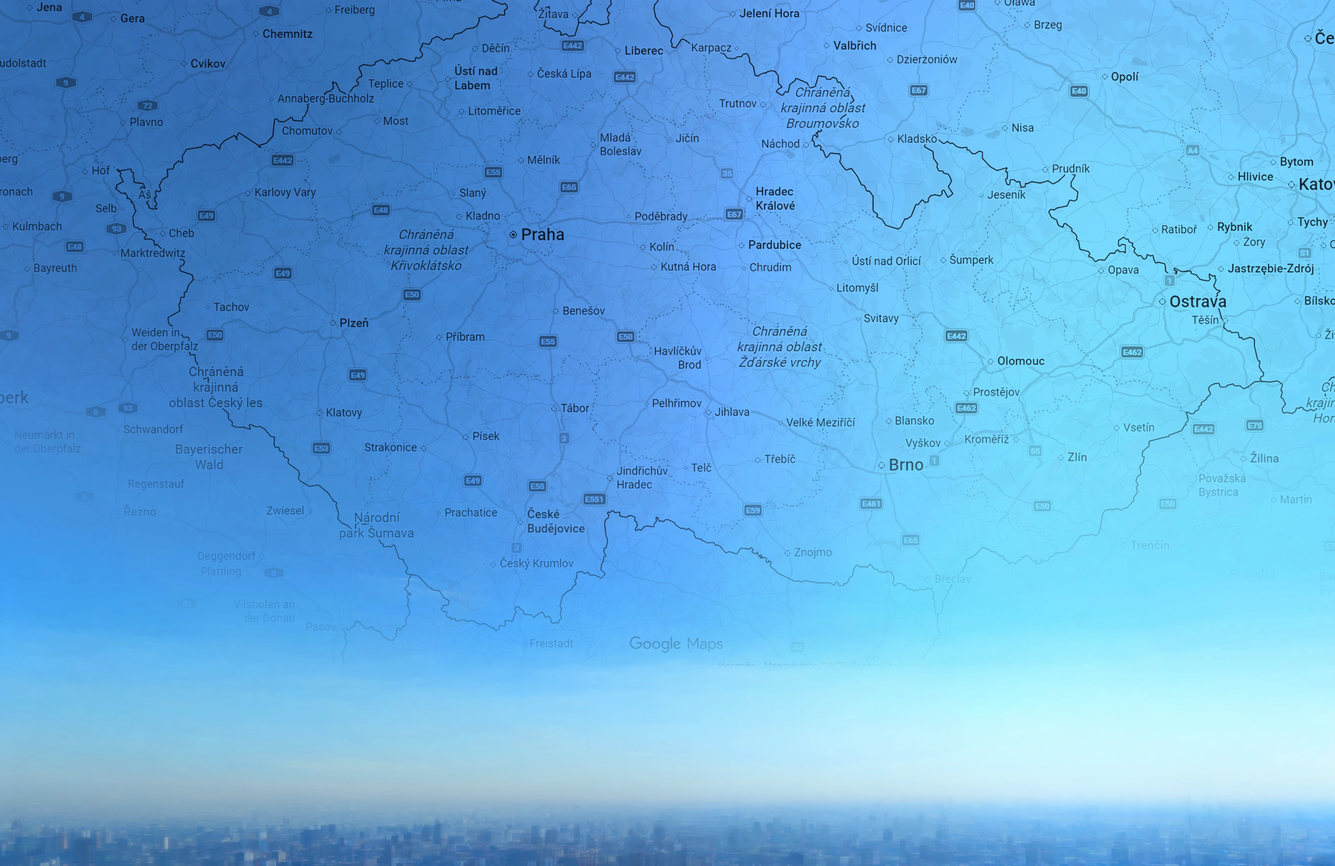
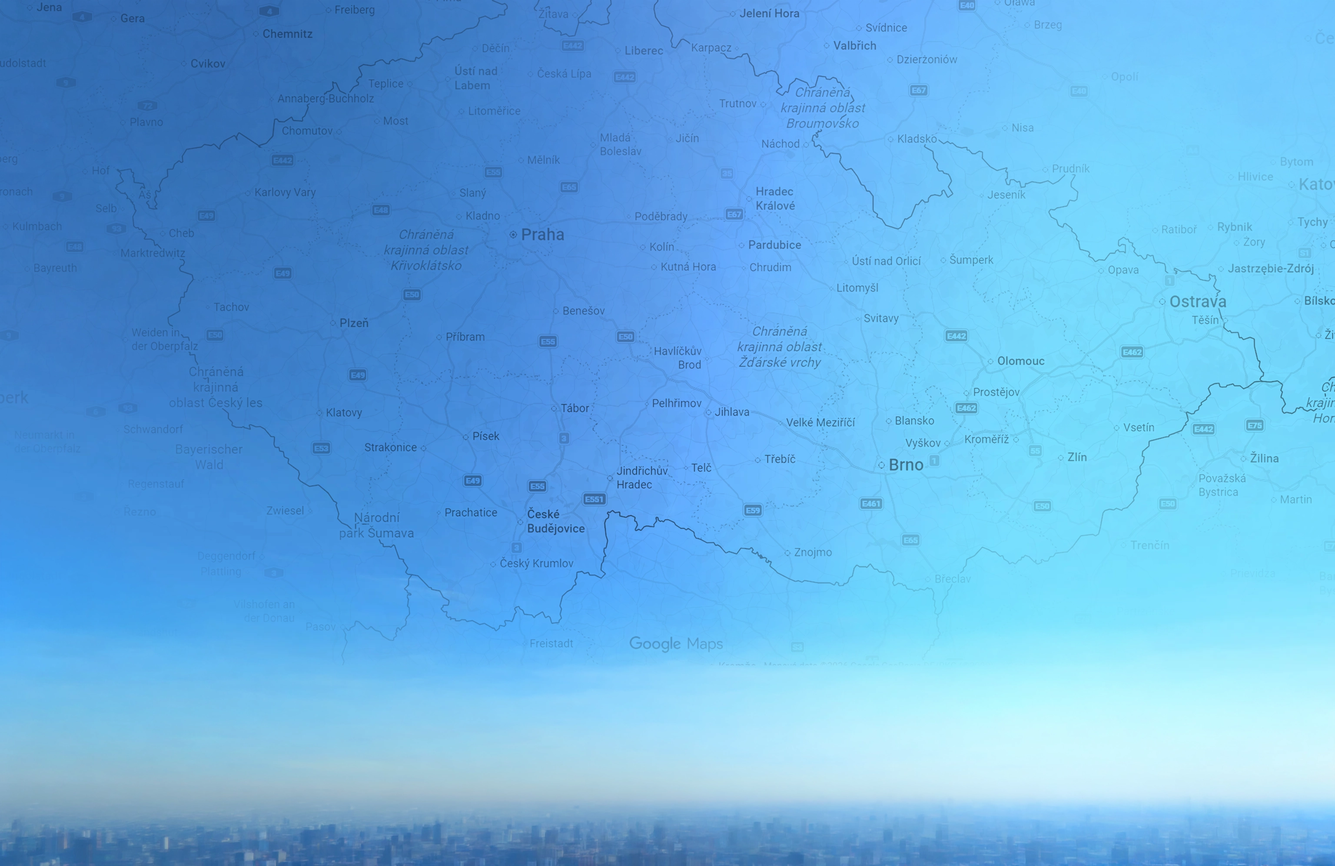
CTA hero: nová fotografie, špendlíky na mapě, vodoznak značky
Dům chyběl kvůli příponě — soubor je nově .webp, odkaz zůstal na .png.

Snímek zároveň změnil poměr stran (3072×1120 → 3072×1994, tedy 2,74:1
→ 1,541:1), takže celá výšková matematika sekce byla mimo. Panorama je
teď vysoké 64,9 vw, sekce roste na 60vw + 40px a nadpis se neváže ke
spodní hraně sekce, ale k hřebeni střechy: `--roofline` je změřený
z alfa kanálu výřezu (silueta kryje 60 % pásu, kde leží slovo MAPU,
v 61,2 % výšky snímku).

Poslední řádek se má za dům zanořit. Kalibrováno na okamžik, kdy je
sekce celá v obraze (p ≈ -0,5), ne na klidovou polohu — text jede
rychlostí -70, panorama +22, takže se vůči sobě míjejí o -92·p.
Klidově účaří sedí 0,16 em nad hřebenem, v plném záběru mizí spodní
pětina verzálky a slovo zůstává čitelné.

Špendlíky (symbol_map@4x-8.png) dosedají na mapu v obloze — osm měst,
souřadnice v procentech rámu fotografie. Vlastní vrstva, ne potomek
`.cta-hero__scene`: musí ležet nad projasněním oblohy, které by je
v horní třetině vybledlilo o 46 %. Doskakují shora s přepružením
a odstupem 130 ms, v pořadí rozházeném po mapě.

Vodoznak: samotný štít značky v pozadí sekce „Datová základna",
8% krytí, s parallaxem. Leží v toku jako první dítě a obsah nad ním
je `position: relative` — pořadí v DOM rozhoduje o překrytí, takže
není potřeba záporný z-index.

Loga o 30 % menší (34 → 24 px v hlavičce, 42 → 29 px v patičce).

diff --git a/css/pages.css b/css/pages.css
@@ -286,6 +286,30 @@
 }
 
 /* --------------------------------------------------------------------------
+   VODOZNAK — samotný štít značky jako tichá plocha v pozadí sekce.
+   Leží v toku jako první dítě a obsah nad ním je `position: relative`;
+   pořadí v DOM tak rozhoduje o překrytí a nepotřebujeme záporný z-index,
+   který by u sekce s vlastním pozadím propadl pod něj.
+   -------------------------------------------------------------------------- */
+.section--mark { position: relative; overflow: hidden; }
+.section--mark > *:not(.watermark) { position: relative; }
+.watermark {
+  position: absolute;
+  /* Štít vybíhá za pravý okraj — vodoznak, ne ilustrace na ploše. */
+  right: -4vw;
+  top: 48%;
+  width: min(21vw, 294px);
+  aspect-ratio: 15.38 / 20.08;
+  background: url("../assets/img/symbol_urbanmap.svg") center / contain no-repeat;
+  opacity: 0.08;
+  transform: translate3d(0, calc(-50% + var(--px, 0px)), 0);
+  will-change: transform;
+  pointer-events: none;
+}
+/* V úzkém layoutu by se štít pral s textem o stejné místo. */
+@media (max-width: 900px) { .watermark { display: none; } }
+
+/* --------------------------------------------------------------------------
    CTA HERO — vrstvená panoramatická kompozice
    Tři vrstvy: obloha vzadu, nadpis, silueta zástavby vepředu. Obě fotografie
    jsou tentýž snímek ve shodném rozlišení, jen z jednoho je odmazaná obloha —
@@ -298,9 +322,18 @@
 .cta-hero {
   position: relative;
   overflow: hidden;
-  /* Panorama je vysoké 1/2,74 šířky okna. Sekce proto roste s šířkou,
-     aby nad ním vždy zbyl pás oblohy pro nadpis. */
-  min-height: max(clamp(520px, 78vh, 900px), calc(36.5vw + 330px));
+  /* Panorama je vysoké 1/1,541 šířky okna, tedy 64,9 vw. Sekce roste
+     s šířkou, aby se mapa v obloze vešla skoro celá — 60 vw ji ořízne
+     nanejvýš o pár desítek pixelů shora, kde je stejně jen zahraničí. */
+  min-height: max(clamp(560px, 80vh, 940px), calc(60vw + 40px));
+  /* Stupeň písma nadpisu je zároveň měřítko, o kolik se poslední řádek
+     zanoří za dům — proto žije tady, ne až u .cta-hero__title. */
+  --cta-fs: clamp(2.2rem, 5.7vw, 6.5rem);
+  /* Hřeben nejvyššího domu v pásu, kde leží slovo MAPU (vodorovně 43–57 %
+     rámu). Změřeno z alfa kanálu výřezu: silueta tam kryje 60 % pásu
+     v 61,2 % výšky snímku, což je 25,2 vw nad jeho patou. Pata leží 30 px
+     pod spodní hranou sekce, viz odsazení .cta-hero__scene. */
+  --roofline: calc(25.2vw - 30px);
   display: grid;
   align-content: start;
   padding-bottom: clamp(40px, 6vh, 80px);
@@ -320,7 +353,7 @@
    na výšku sekce znamenalo, že jedna budova zabrala celý rám a nadpis
    za ní zmizel. */
 .cta-hero__scene img { display: block; width: 100%; height: auto; }
-.cta-hero__scene--fg { z-index: 4; }
+.cta-hero__scene--fg { z-index: 5; }
 
 /* Horní hrana ostré fotografie se rozplyne do rozostřeného podkladu,
    takže na přechodu není vidět šev. Siluetu popředí maskovat nesmíme. */
@@ -348,14 +381,49 @@
     transparent 64%);
 }
 
+/* Špendlíky. Vlastní vrstva, ne potomek `.cta-hero__scene`: musí ležet nad
+   projasněním oblohy, jinak by je scrim v horní třetině vybledlil o 46 %.
+   Rám si drží poměrem stran, takže procentní souřadnice sedí na fotografii
+   i bez vlastního obrázku. */
+.cta-hero__pins {
+  position: absolute; left: 0; right: 0; bottom: -30px; z-index: 3;
+  aspect-ratio: 3072 / 1994;
+  pointer-events: none;
+  transform: translate3d(0, var(--px, 0), 0);
+  will-change: transform;
+}
+.cta-pin { position: absolute; left: var(--x); top: var(--y); }
+/* Hrot štítu leží v 49 % výšky podkladu (zbytek je stín a průhledný okraj),
+   proto se vrstva posouvá o tolik, ne o polovinu. */
+.cta-pin > i {
+  display: block;
+  width: clamp(72px, 6.6vw, 150px);
+  aspect-ratio: 380 / 326;
+  margin-left: -50%;
+  margin-top: -49%;
+  background: url("../assets/img/symbol_map@4x-8.png") center / contain no-repeat;
+}
+/* Špendlík nedosedá zdola jako ostatní reveal, ale shora — jako by na mapu
+   spadl. Doskok je lehce přepružený. */
+.js [data-reveal="pin"] { opacity: 0; transform: translate3d(0, -30px, 0) scale(0.7); }
+.js [data-reveal="pin"].is-in {
+  transition-duration: 620ms;
+  transition-timing-function: cubic-bezier(0.22, 1.4, 0.36, 1);
+}
+
 /* Typografická vrstva — jediná, která se vůči fotografii pohybuje. */
-/* Nadpis se váže ke spodní hraně sekce, ne k horní: rozhoduje, kde leží
-   střechy, a ty jsou dané výškou panoramatu (36,5 vw). Odsazení 24 vw + 40 px
-   posadí poslední řádek těsně nad linii, kde zástavba stoupá. */
+/* Nadpis se váže k hřebeni střechy, ne ke spodní hraně sekce — poslední
+   řádek se má za dům zanořit. Rozhoduje ale okamžik, kdy je sekce celá
+   v obraze, ne klidová poloha: text jede rychlostí -70, panorama +22,
+   takže se vůči sobě míjejí o -92·p. Při plném záběru je p zhruba -0,5,
+   tedy text leží o 46 px níž než v klidu. Klidově proto účaří sedí
+   0,16 em NAD hřebenem a teprve pohyb ho zanoří — při plném záběru mizí
+   spodní pětina verzálky, takže slovo zůstává čitelné. Při odjezdu sekce
+   nahoru se zase vynoří celé. */
 .cta-hero__type {
   position: absolute; left: 0; right: 0;
-  bottom: calc(24vw + 40px);
-  z-index: 3;
+  bottom: calc(var(--roofline) + 0.16 * var(--cta-fs));
+  z-index: 4;
   width: min(780px, 46vw);
   margin-inline: auto;
   text-align: center;
@@ -365,14 +433,14 @@
 .cta-hero__title {
   font-family: var(--font-display);
   font-weight: var(--fw-demi);
-  font-size: clamp(2.2rem, 5.7vw, 6.5rem);
+  font-size: var(--cta-fs);
   line-height: 0.98;
   letter-spacing: -0.03em;
   text-transform: uppercase;
 }
 
 .cta-hero__aside {
-  position: absolute; top: clamp(36px, 6vh, 88px); z-index: 5;
+  position: absolute; top: clamp(36px, 6vh, 88px); z-index: 6;
   width: min(260px, 22vw);
   transform: translate3d(0, var(--px, 0), 0);
 }
@@ -422,4 +490,6 @@
     height: clamp(200px, 42vw, 360px); margin-top: var(--s-8);
   }
   .cta-hero__scene--fg { display: none; }
+  /* V toku fotografie přetéká svůj box — procentní souřadnice by nesedly. */
+  .cta-hero__pins { display: none; }
 }

diff --git a/index.html b/index.html
@@ -185,7 +185,8 @@
      ================================================================== -->
 
 <!-- 01 · CO PLATFORMA VIDÍ -->
-<section class="section section--rule bleed" id="data">
+<section class="section section--rule section--mark bleed" id="data" data-px="1">
+  <div class="watermark" data-px-layer="-46" aria-hidden="true"></div>
   <div class="section-head">
     <div>
       <span class="section-index">Datová základna</span>
@@ -330,12 +331,26 @@
     </div>
   </div>
 
+  <!-- Špendlíky dosedají na mapu v obloze. Souřadnice jsou v procentech
+       rámu fotografie, ne sekce — vrstva proto drží stejnou geometrii
+       i stejnou rychlost jako panorama. -->
+  <div class="cta-hero__pins" data-px-layer="22" data-stagger="130" aria-hidden="true">
+    <span class="cta-pin" style="--x:65.5%;--y:53.7%"><i data-reveal="pin" title="Brno"></i></span>
+    <span class="cta-pin" style="--x:38.3%;--y:27%"><i data-reveal="pin" title="Praha"></i></span>
+    <span class="cta-pin" style="--x:86.9%;--y:34.8%"><i data-reveal="pin" title="Ostrava"></i></span>
+    <span class="cta-pin" style="--x:55.9%;--y:22.9%"><i data-reveal="pin" title="Hradec Králové"></i></span>
+    <span class="cta-pin" style="--x:24.6%;--y:37.4%"><i data-reveal="pin" title="Plzeň"></i></span>
+    <span class="cta-pin" style="--x:74.2%;--y:41.7%"><i data-reveal="pin" title="Olomouc"></i></span>
+    <span class="cta-pin" style="--x:38.4%;--y:59.3%"><i data-reveal="pin" title="České Budějovice"></i></span>
+    <span class="cta-pin" style="--x:18.4%;--y:22.2%"><i data-reveal="pin" title="Karlovy Vary"></i></span>
+  </div>
+
   <div class="cta-hero__type" data-px-layer="-70">
     <h2 class="cta-hero__title" data-split>Dostaňte projekt na mapu</h2>
   </div>
 
   <div class="cta-hero__scene cta-hero__scene--fg" data-px-layer="22" aria-hidden="true">
-    <img src="assets/img/panorama-znojmo/panorama_bez_oblohy.png" alt="" loading="lazy" decoding="async">
+    <img src="assets/img/panorama-znojmo/panorama_bez_oblohy.webp" alt="" loading="lazy" decoding="async">
   </div>
 </section>
 

diff --git a/css/components.css b/css/components.css
@@ -22,13 +22,13 @@
    smrskla na 1 px — přepínač tématu i burger prakticky zmizely. */
 .header .btn--icon { flex: none; }
 /* Značka je široká (poměr zhruba 6 : 1), na úzkých displejích se zmenší. */
-@media (max-width: 620px) { .header .wordmark { --logo-h: 26px; } }
+@media (max-width: 620px) { .header .wordmark { --logo-h: 18px; } }
 /* Na nejužších displejích nese „Přidat projekt“ zásuvka. */
 @media (max-width: 520px) { .header .btn--primary { display: none; } }
 
 /* Wordmark ---------------------------------------------------------------- */
 .wordmark { display: inline-flex; align-items: center; flex: none; }
-.wordmark img { display: block; height: var(--logo-h, 34px); width: auto; }
+.wordmark img { display: block; height: var(--logo-h, 24px); width: auto; }
 
 /* Dvě varianty souboru, ne filtr — značka je dvoubarevná a invert by
    posunul i hnědou. */

diff --git a/js/core.js b/js/core.js
@@ -217,7 +217,7 @@
       '<div class="bleed">' +
         '<div class="footer__grid">' +
           '<div class="footer__col">' +
-            wordmark('42px') +
+            wordmark('29px') +
             '<p class="lead" style="margin-top:20px;max-width:38ch;font-size:var(--t-body)">' +
               'Mapově-datová platforma pro nové developerské projekty v České republice. ' +
               'Najděte nové bydlení nebo investiční příležitost podle lokality.</p>' +
